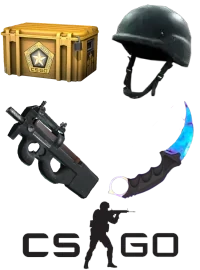
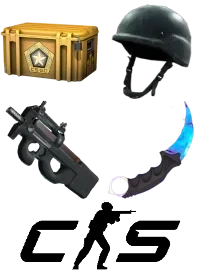
update: cs2

Changed region(s): [[0.09, 0.7407, 0.9, 1.0]]

diff --git a/index.html b/index.html
@@ -659,7 +659,7 @@
 
 	<section id="equipe">
 		<div class="roster">
-			<div class="roster-name"> Counter-Strike: Global&nbsp;Offensive </div>
+			<div class="roster-name"> Counter-Strike 2 </div>
 			<div class="players">
 				<div class="player" data-action="display-player" tabindex="0">
 					<span class="player-name"> Arno3K </span>
@@ -828,7 +828,7 @@
 	<section id="a-propos">
 		<h1> À Propos </h1>
 		<br><br>
-		Voici l'histoire d’Aztec ! Tout a commencé après notre dernier progress sur World of Warcraft, lorsque Riggow et moi-même, Ironpol, avons ressenti le désir de créer quelque chose de plus grand. Notre passé commun en tant que joueurs compétitifs, ayant évolué ensemble pendant 3 ans dans la même équipe de Counter-Strike: Global Offensive, ainsi que notre expérience dans la gestion d'équipes, nous ont permis de prendre cette décision. 
+		Voici l'histoire d’Aztec ! Tout a commencé après notre dernier progress sur World of Warcraft, lorsque Riggow et moi-même, Ironpol, avons ressenti le désir de créer quelque chose de plus grand. Notre passé commun en tant que joueurs compétitifs, ayant évolué ensemble pendant 3 ans dans la même équipe de Counter-Strike: 2, ainsi que notre expérience dans la gestion d'équipes, nous ont permis de prendre cette décision. 
 		<br><br>
 		Nos objectifs sont clairs : rassembler des joueurs autour de jeux tels que Diablo IV et Dofus Temporis. Nous avons choisi de nous concentrer sur ces deux jeux pour favoriser la construction d'une communauté solide et pouvoir organiser régulièrement des événements. De plus, nous avons pour ambition de nous établir dans l'esport, en commençant par Counter-Strike 2. Cependant, nous restons ouverts à d'autres opportunités qui pourraient se présenter plus tôt que prévu. 
 		<br><br>
